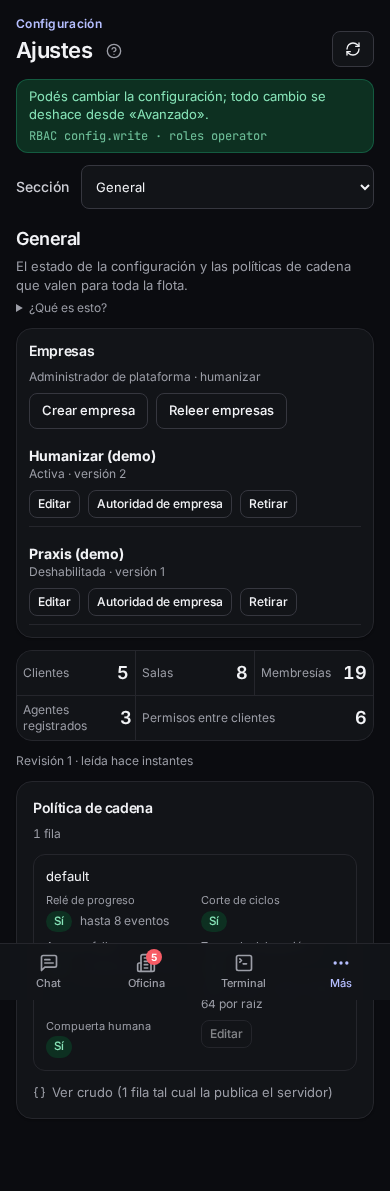
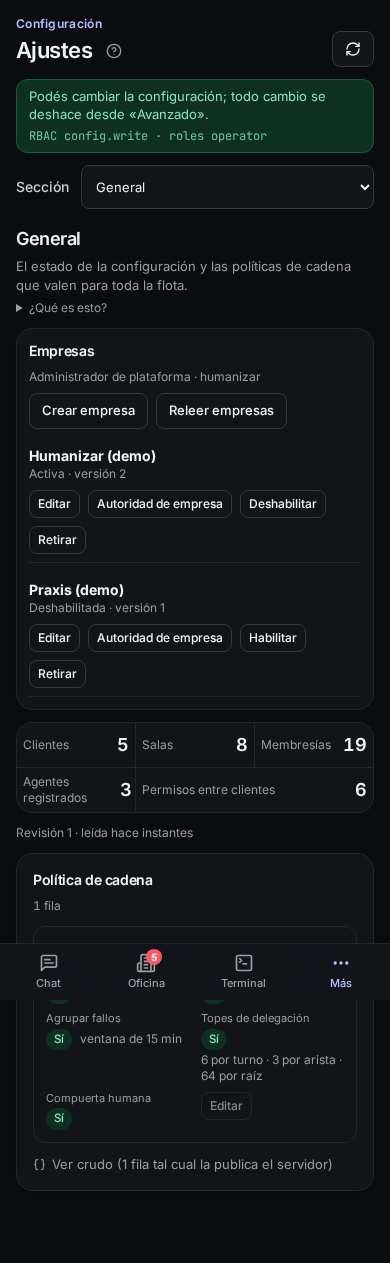
test(console): aceptar cambios intencionales y fijar referencias del plano corregido

diff --git a/console/qa/layout-v4-gate.md b/console/qa/layout-v4-gate.md
@@ -9,14 +9,14 @@ node --test console/qa/layout-v4-measure.test.mjs
 cd console && pnpm exec eslint qa/layout-gate.mjs qa/layout-dev-server.mjs qa/layout-v4-*.mjs
 ```
 
-La actualización selectiva modifica exclusivamente `layout-v4-baseline.json` y `layout-v4-references/`. Conserva `layout-baseline.json` y no acepta aumentos del presupuesto de altura. Un estado con desborde, texto cortado, solape, error o datos incompletos no genera referencia. La prueba ordinaria sigue rechazando esos defectos aunque exista una referencia anterior.
+La actualización selectiva modifica exclusivamente `layout-v4-baseline.json` y `layout-v4-references/`. Conserva `layout-baseline.json` y no acepta aumentos automáticos del presupuesto de altura. Un estado con desborde, texto cortado, solape, error o datos incompletos no genera referencia. La prueba ordinaria sigue rechazando esos defectos aunque exista una referencia anterior.
 
 ## Estados y datos
 
 | Identificador | Estado comprobado |
 |---|---|
 | `my-quotas` | Dos cuentas y entornos; Codex compartida por dos agentes. |
-| `office-plan` | Plano, sala seleccionada y editor habilitado; captura adicional del editor. |
+| `office-plan` | Plano visible, sala seleccionada, agentes en panel independiente y editor habilitado; captura adicional del editor. |
 | `campus` | Canvas y modo Campus activo. |
 | `computers` | Ordenador con ejecutor listo y otro cuya preparación está pendiente. |
 | `companies` | Dos empresas bajo autoridad de plataforma. |
@@ -25,7 +25,7 @@ La actualización selectiva modifica exclusivamente `layout-v4-baseline.json` y 
 | `agent-profile` | Perfil no vacío; captura adicional al fondo del formulario. |
 | `agent-history` | Dos cambios y sus autores. |
 | `context-versions` | Archivo de contexto, dos versiones y sus autores; captura adicional al fondo. |
-| `company-retired` | Sesión sin autoridad y pantalla de empresa retirada. |
+| `company-retired` | Sesión sin autoridad y título exacto «Tu cuenta no tiene acceso vigente». |
 | `registration` | Sesión sin autenticar y formulario abierto desde «Crear cuenta y empresa». |
 
 `layout-v4-fixtures.mjs` reutiliza los handlers mediante `loadFixtures()` y añade los datos V4 fuera de los mocks de la aplicación. El navegador intercepta los GET; bloquea mutaciones y conexiones externas. Los service workers se desactivan y el servidor V4 arranca sin MSW para conservar una única fuente de respuestas.
@@ -40,8 +40,16 @@ La evidencia incremental y el informe JSON quedan en `console/qa/.test-state/lay
 
 Cada servidor del gate reutiliza la configuración de Vite mediante `vite-layout.config.mjs`, con una caché única bajo `.test-state/vite-cache/`. El cierre elimina únicamente esa caché después de confirmar la terminación del proceso. Esto evita compartir dependencias optimizadas entre servidores QA; no demuestra la causa de errores anteriores de red o hooks.
 
-## Hallazgo conservado
+## Revisión de referencias
 
-En el plano de 1440 px, claro y oscuro, la tarjeta de `argos` tapa el inicio de «Mesa de coordinación» en `grp.steven`. Parte y tarjeta comparten el mapa, de modo que desplazar el visor no recupera la etiqueta. El fixture es válido y se conserva: no se crea referencia para esos dos estados. Las capturas del defecto y su medición quedan en `layout-v4-findings/`; corregirlo requiere trabajo en el componente de oficina, fuera del alcance del arnés.
+Un crecimiento intencional autorizado se acepta por estado, con evidencia y revisión independiente:
 
-La pasada de cierre también conserva cuatro fallos de altura en Empresas y administradores a 390 px, en ambos temas. Los nuevos botones «Habilitar/Deshabilitar» desplazan «Retirar» a otra fila por empresa: el contenido crece 72 px respecto a las referencias. Las etiquetas siguen completas, pero superan la tolerancia de 64 px. `layout-v4-findings/height-regressions.json` y sus cuatro PNG guardan esa evidencia; las referencias anteriores no se amplían para aceptar el aumento.
+1. Ejecutar el gate ordinario y conservar su JSON completo y sus capturas.
+2. Identificar el commit que cambió la UI y comparar la captura con su referencia, en ambos temas y tamaños afectados.
+3. Comprobar que las métricas principales y de detalle no tienen desborde, recorte, solape ni errores. Solo se admite el fallo de altura o la ausencia de una referencia nueva.
+4. Cambiar exclusivamente las alturas de los estados revisados al valor medido y copiar exclusivamente sus PNG. Documentar alturas anteriores, nuevas y commit causal. `--update` por sí solo conserva el presupuesto anterior.
+5. Ejecutar `pnpm qa:layout` completo, sin opciones de aceptación. Las tolerancias y las comprobaciones absolutas siguen vigentes.
+
+Las acciones por estado de empresa de `b02419a0` envuelven «Retirar» a otra fila por empresa en móvil: Empresas pasa de 1191 a 1263 px y administradores de 1669 a 1741 px, tanto en claro como en oscuro. Este crecimiento intencional de 72 px tiene controles y etiquetas completos. La confirmación escrita y el aviso de empresa de origen pertenecen al mismo commit; las capturas de estas dos vistas no abren esa confirmación.
+
+El plano conserva el fixture de sala 300×260 y parte `(16,180,220,60)`. Las tarjetas de agentes se muestran fuera del rectángulo geométrico, en la sala seleccionada, también para lectores; editar y guardar siguen sujetos a autoridad de escritura. El visor tiene una altura mínima y el gate comprueba que puede mostrar un selector de sala. Los PNG y JSON de `layout-v4-findings/` muestran los fallos previos; las referencias y el informe de cada pasada describen el resultado actual.
